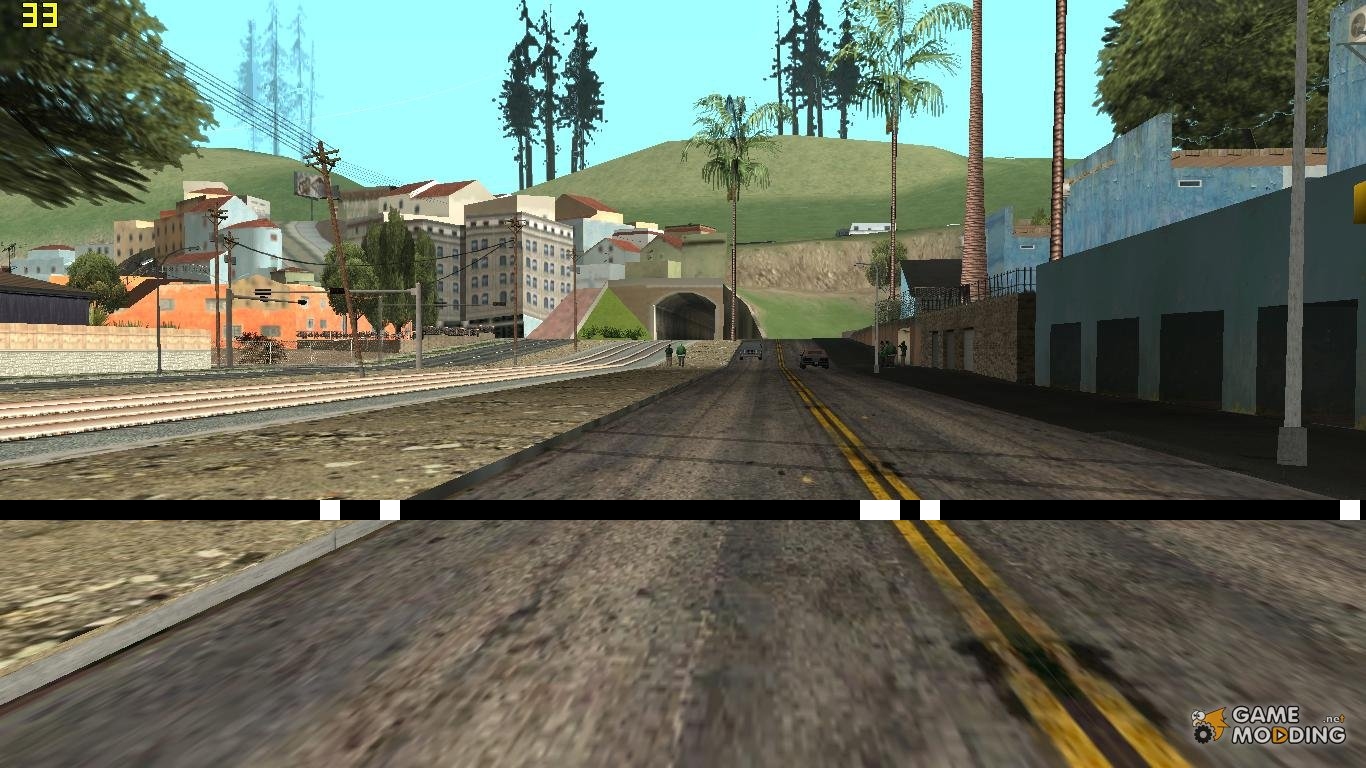
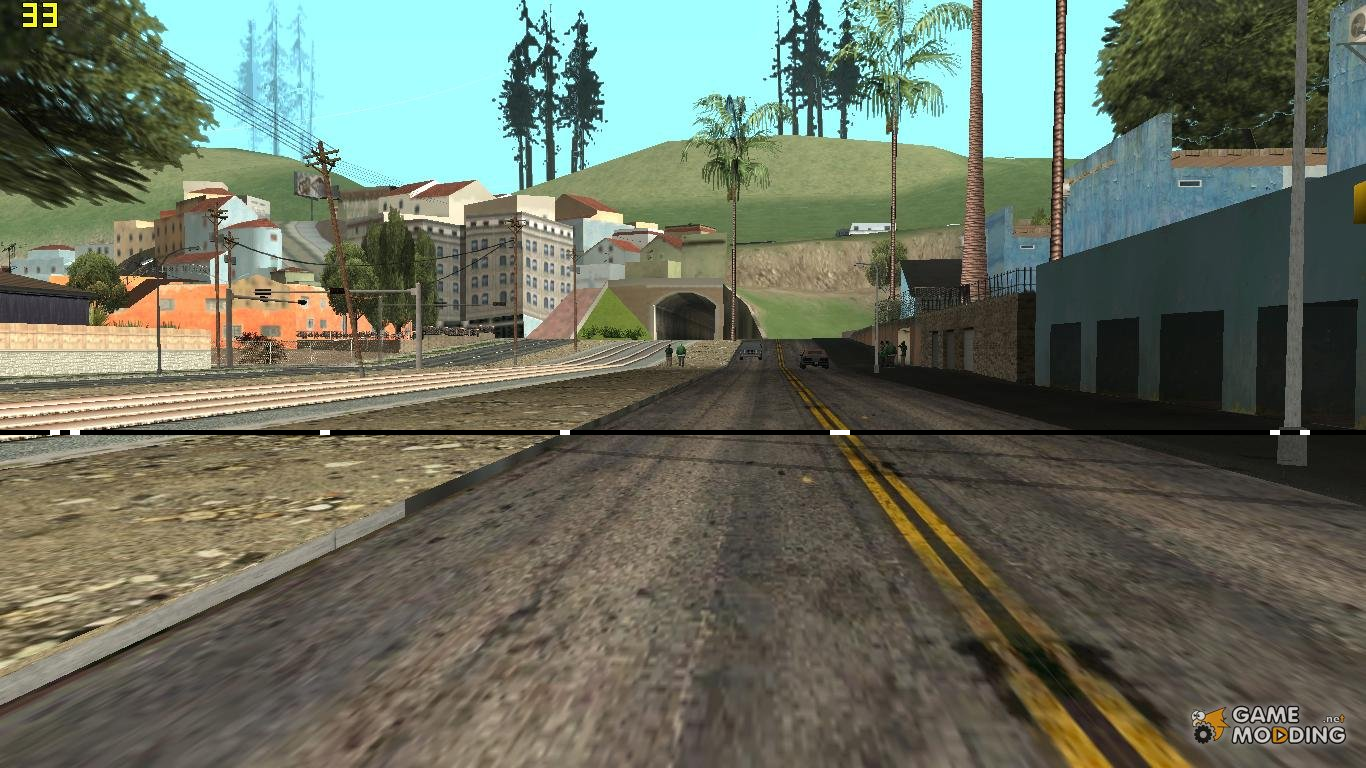
Mniejsze bloki

Changed region(s): [[0.0, 0.625, 1.0, 0.6875], [0.0, 0.5625, 0.8302, 0.5938]]

diff --git a/cej.py b/cej.py
@@ -3,10 +3,10 @@ import numpy as Np
 from PIL import Image
 
 
-strip_off = 500
-block_w = 20
-block_h = 20
-edge_thres = 100
+strip_off = 430
+block_w = 10
+block_h = 5
+edge_thres = 120
 
 
 def norm255(array):
@@ -38,7 +38,7 @@ for f_path in sys.argv[1:]:
 		blocks[i] /= block_w * block_h
 	for i in range(len(blocks) - 1):
 		blocks[i] = abs(blocks[i] - blocks[i+1])
-	norm255(blocks)
+	norm255(blocks)									#dlaczego zamienianie tych wywołań crashuje?
 	thres255(blocks, edge_thres)
 	for i in range(strip_off, strip_off + block_h):
 		for j in range(0, w):
